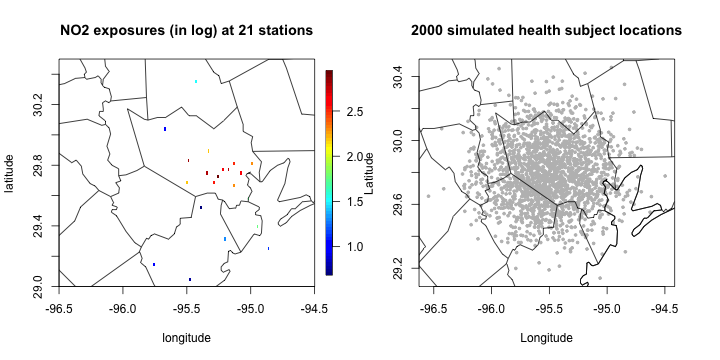
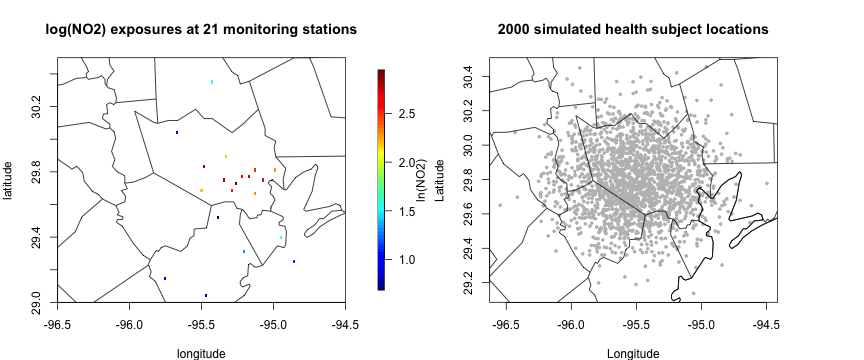
Deploying to gh-pages from @ changwoo-lee/bspme@e62333fca1ca204ca555ebb7ffd8308787984d74 🚀

diff --git a/articles/no2-exposure-and-health-data-analysis.html b/articles/no2-exposure-and-health-data-analysis.html
@@ -78,14 +78,14 @@
     
     
 <p>This is a vignette for the <code>bspme</code> package based on
-January 2012 daily average NO2 data at Houston, Texas and simulated
-health dataset.</p>
+January 2012 daily average NO2 data in Harris County, Texas and a
+simulated health dataset.</p>
 <p>First load the package and data:</p>
 <div class="sourceCode" id="cb1"><pre class="downlit sourceCode r">
 <code class="sourceCode R"><span><span class="fu"><a href="https://rdrr.io/r/base/rm.html" class="external-link">rm</a></span><span class="op">(</span>list<span class="op">=</span><span class="fu"><a href="https://rdrr.io/r/base/ls.html" class="external-link">ls</a></span><span class="op">(</span><span class="op">)</span><span class="op">)</span></span>
 <span><span class="kw"><a href="https://rdrr.io/r/base/library.html" class="external-link">library</a></span><span class="op">(</span><span class="va"><a href="https://changwoo-lee.github.io/bspme/">bspme</a></span><span class="op">)</span></span>
-<span><span class="kw"><a href="https://rdrr.io/r/base/library.html" class="external-link">library</a></span><span class="op">(</span><span class="va"><a href="https://github.com/dnychka/fieldsRPackage" class="external-link">fields</a></span><span class="op">)</span></span>
-<span><span class="kw"><a href="https://rdrr.io/r/base/library.html" class="external-link">library</a></span><span class="op">(</span><span class="va">maps</span><span class="op">)</span></span>
+<span><span class="kw"><a href="https://rdrr.io/r/base/library.html" class="external-link">library</a></span><span class="op">(</span><span class="va"><a href="https://github.com/dnychka/fieldsRPackage" class="external-link">fields</a></span><span class="op">)</span> <span class="co"># for spatial distance calculation and covariance functions </span></span>
+<span><span class="kw"><a href="https://rdrr.io/r/base/library.html" class="external-link">library</a></span><span class="op">(</span><span class="va">maps</span><span class="op">)</span> <span class="co"># plotting tool </span></span>
 <span><span class="fu"><a href="https://rdrr.io/r/utils/data.html" class="external-link">data</a></span><span class="op">(</span><span class="st">"NO2_Jan2012"</span><span class="op">)</span></span>
 <span><span class="fu"><a href="https://rdrr.io/r/utils/data.html" class="external-link">data</a></span><span class="op">(</span><span class="st">"health_sim"</span><span class="op">)</span></span></code></pre></div>
 <p>The daily average NO2 data are collected at 21 monitoring sites
@@ -95,39 +95,39 @@ purpose. We also consider simulated health dataset, with <span class="math inlin
 health responses.</p>
 <div class="sourceCode" id="cb2"><pre class="downlit sourceCode r">
 <code class="sourceCode R"><span><span class="va">data_jan10</span> <span class="op">=</span> <span class="va">NO2_Jan2012</span><span class="op">[</span><span class="va">NO2_Jan2012</span><span class="op">$</span><span class="va">date</span> <span class="op">==</span> <span class="fu"><a href="https://rdrr.io/r/base/as.POSIXlt.html" class="external-link">as.POSIXct</a></span><span class="op">(</span><span class="st">"2012-01-10"</span><span class="op">)</span>,<span class="op">]</span></span>
-<span><span class="fu"><a href="https://rdrr.io/r/graphics/par.html" class="external-link">par</a></span><span class="op">(</span>mfrow <span class="op">=</span> <span class="fu"><a href="https://rdrr.io/r/base/c.html" class="external-link">c</a></span><span class="op">(</span><span class="fl">1</span>,<span class="fl">2</span><span class="op">)</span><span class="op">)</span></span>
+<span><span class="fu"><a href="https://rdrr.io/r/graphics/par.html" class="external-link">par</a></span><span class="op">(</span>mfrow <span class="op">=</span> <span class="fu"><a href="https://rdrr.io/r/base/c.html" class="external-link">c</a></span><span class="op">(</span><span class="fl">1</span>,<span class="fl">2</span><span class="op">)</span>, mar <span class="op">=</span> <span class="fu"><a href="https://rdrr.io/r/base/c.html" class="external-link">c</a></span><span class="op">(</span><span class="fl">4</span>, <span class="fl">4</span>, <span class="fl">4</span>, <span class="fl">6</span><span class="op">)</span><span class="op">)</span></span>
 <span><span class="fu"><a href="https://rdrr.io/pkg/fields/man/quilt.plot.html" class="external-link">quilt.plot</a></span><span class="op">(</span><span class="fu"><a href="https://www.math.uzh.ch/pages/spam/reference/cbind.html" class="external-link">cbind</a></span><span class="op">(</span><span class="va">data_jan10</span><span class="op">$</span><span class="va">lon</span>, <span class="va">data_jan10</span><span class="op">$</span><span class="va">lat</span><span class="op">)</span>,</span>
-<span>            <span class="va">data_jan10</span><span class="op">$</span><span class="va">lnNO2</span>, main <span class="op">=</span> <span class="st">"NO2 exposures (in log) at 21 stations"</span>,</span>
-<span>            xlab <span class="op">=</span> <span class="st">"longitude"</span>, ylab<span class="op">=</span> <span class="st">"latitude"</span>, xlim <span class="op">=</span> <span class="fu"><a href="https://rdrr.io/r/base/c.html" class="external-link">c</a></span><span class="op">(</span><span class="op">-</span><span class="fl">96.5</span>, <span class="op">-</span><span class="fl">94.5</span><span class="op">)</span>, ylim <span class="op">=</span> <span class="fu"><a href="https://rdrr.io/r/base/c.html" class="external-link">c</a></span><span class="op">(</span><span class="fl">29</span>, <span class="fl">30.5</span><span class="op">)</span><span class="op">)</span></span>
+<span>            <span class="va">data_jan10</span><span class="op">$</span><span class="va">lnNO2</span>, main <span class="op">=</span> <span class="st">"log(NO2) exposures at 21 monitoring stations"</span>,</span>
+<span>            xlab <span class="op">=</span> <span class="st">"longitude"</span>, ylab<span class="op">=</span> <span class="st">"latitude"</span>, xlim <span class="op">=</span> <span class="fu"><a href="https://rdrr.io/r/base/c.html" class="external-link">c</a></span><span class="op">(</span><span class="op">-</span><span class="fl">96.5</span>, <span class="op">-</span><span class="fl">94.5</span><span class="op">)</span>, ylim <span class="op">=</span> <span class="fu"><a href="https://rdrr.io/r/base/c.html" class="external-link">c</a></span><span class="op">(</span><span class="fl">29</span>, <span class="fl">30.5</span><span class="op">)</span>, legend.lab <span class="op">=</span> <span class="st">"ln(NO2)"</span><span class="op">)</span></span>
 <span><span class="fu">maps</span><span class="fu">::</span><span class="fu"><a href="https://rdrr.io/pkg/maps/man/map.html" class="external-link">map</a></span><span class="op">(</span><span class="st">"county"</span>, <span class="st">"Texas"</span>, add <span class="op">=</span> <span class="cn">T</span><span class="op">)</span></span>
 <span><span class="fu"><a href="https://rdrr.io/r/graphics/plot.default.html" class="external-link">plot</a></span><span class="op">(</span><span class="va">health_sim</span><span class="op">$</span><span class="va">lon</span>, <span class="va">health_sim</span><span class="op">$</span><span class="va">lat</span>, pch <span class="op">=</span> <span class="fl">19</span>, cex <span class="op">=</span> <span class="fl">0.5</span>, col <span class="op">=</span> <span class="st">"grey"</span>,</span>
 <span>     xlab <span class="op">=</span> <span class="st">"Longitude"</span>, ylab <span class="op">=</span> <span class="st">"Latitude"</span>, main <span class="op">=</span> <span class="st">"2000 simulated health subject locations"</span><span class="op">)</span>; <span class="fu"><a href="https://rdrr.io/pkg/fields/man/US.html" class="external-link">US</a></span><span class="op">(</span>add <span class="op">=</span> <span class="cn">T</span><span class="op">)</span></span>
 <span><span class="fu">maps</span><span class="fu">::</span><span class="fu"><a href="https://rdrr.io/pkg/maps/man/map.html" class="external-link">map</a></span><span class="op">(</span><span class="st">"county"</span>, <span class="st">"Texas"</span>, add <span class="op">=</span> <span class="cn">T</span><span class="op">)</span></span></code></pre></div>
 <div class="figure">
 <img src="figure/eda-1.png" alt="plot of chunk eda" width="100%"><p class="caption">
-plot of chunk eda
 </p>
 </div>
 <div class="section level3">
 <h3 id="obtain-posterior-predictive-distribution-at-health-subject-locations">Obtain posterior predictive distribution at health subject
 locations<a class="anchor" aria-label="anchor" href="#obtain-posterior-predictive-distribution-at-health-subject-locations"></a>
 </h3>
-<p>In this example, we will use Gaussian process to obtain a predictive
-distribution of <span class="math inline">\((X_1,\dots,X_n)\)</span>,
-the log(NO2) exposure at the health subject locations. The posterior
-predictive distribution is n-dimensional multivariate normal <span class="math inline">\(N(\mu_X, Q_X^{-1})\)</span>, which will be used as
-a prior in health model to incorporate measurement error information of
-ozone exposure. Specifically, we will use the exponential covariance
-kernel with fixed range 5 (in miles) and standard deviation 1 (in
-ppbv).</p>
+<p>In this example, we will use a Gaussian process to obtain a
+predictive distribution of <span class="math inline">\((X_1,\dots,X_n)\)</span> for the log(NO2) exposure
+at the health subject locations. The posterior predictive distribution
+(ppd) is an n-dimensional multivariate normal <span class="math inline">\(N(\mu_X, Q_X^{-1})\)</span>, which will be used as
+a prior to incorporate the prediction uncertainty and spatial
+correlation in NO2 exposures at health subject locations in the
+estimation of the health model. Speciﬁcally, we will use the exponential
+covariance kernel with a ﬁxed range of 8 (in km) and standard deviation
+1.</p>
 <div class="sourceCode" id="cb3"><pre class="downlit sourceCode r">
 <code class="sourceCode R"><span><span class="va">coords_monitor</span> <span class="op">=</span> <span class="fu"><a href="https://www.math.uzh.ch/pages/spam/reference/cbind.html" class="external-link">cbind</a></span><span class="op">(</span><span class="va">data_jan10</span><span class="op">$</span><span class="va">lon</span>, <span class="va">data_jan10</span><span class="op">$</span><span class="va">lat</span><span class="op">)</span></span>
 <span><span class="va">coords_health</span> <span class="op">=</span> <span class="fu"><a href="https://www.math.uzh.ch/pages/spam/reference/cbind.html" class="external-link">cbind</a></span><span class="op">(</span><span class="va">health_sim</span><span class="op">$</span><span class="va">lon</span>, <span class="va">health_sim</span><span class="op">$</span><span class="va">lat</span><span class="op">)</span></span>
-<span><span class="va">a</span> <span class="op">=</span> <span class="fl">5</span>; <span class="va">sigma</span> <span class="op">=</span> <span class="fl">1</span>; <span class="co"># assume known</span></span>
+<span><span class="va">a</span> <span class="op">=</span> <span class="fl">8</span>; <span class="va">sigma</span> <span class="op">=</span> <span class="fl">1</span>; <span class="co"># assume known</span></span>
 <span><span class="co"># distance calculation</span></span>
-<span><span class="va">distmat_xx</span> <span class="op">&lt;-</span> <span class="fu"><a href="https://rdrr.io/pkg/fields/man/rdist.earth.html" class="external-link">rdist.earth</a></span><span class="op">(</span><span class="va">coords_monitor</span><span class="op">)</span></span>
-<span><span class="va">distmat_xy</span> <span class="op">&lt;-</span> <span class="fu"><a href="https://rdrr.io/pkg/fields/man/rdist.earth.html" class="external-link">rdist.earth</a></span><span class="op">(</span><span class="va">coords_monitor</span>, <span class="va">coords_health</span><span class="op">)</span></span>
-<span><span class="va">distmat_yy</span> <span class="op">&lt;-</span> <span class="fu"><a href="https://rdrr.io/pkg/fields/man/rdist.earth.html" class="external-link">rdist.earth</a></span><span class="op">(</span><span class="va">coords_health</span><span class="op">)</span></span>
+<span><span class="va">distmat_xx</span> <span class="op">&lt;-</span> <span class="fu"><a href="https://rdrr.io/pkg/fields/man/rdist.earth.html" class="external-link">rdist.earth</a></span><span class="op">(</span><span class="va">coords_monitor</span>, miles <span class="op">=</span> <span class="cn">F</span><span class="op">)</span></span>
+<span><span class="va">distmat_xy</span> <span class="op">&lt;-</span> <span class="fu"><a href="https://rdrr.io/pkg/fields/man/rdist.earth.html" class="external-link">rdist.earth</a></span><span class="op">(</span><span class="va">coords_monitor</span>, <span class="va">coords_health</span>, miles <span class="op">=</span> <span class="cn">F</span><span class="op">)</span></span>
+<span><span class="va">distmat_yy</span> <span class="op">&lt;-</span> <span class="fu"><a href="https://rdrr.io/pkg/fields/man/rdist.earth.html" class="external-link">rdist.earth</a></span><span class="op">(</span><span class="va">coords_health</span>, miles <span class="op">=</span> <span class="cn">F</span><span class="op">)</span></span>
 <span></span>
 <span><span class="co"># GP covariance matrices</span></span>
 <span><span class="va">Sigmaxx</span> <span class="op">=</span> <span class="fu">fields</span><span class="fu">::</span><span class="fu"><a href="https://rdrr.io/pkg/fields/man/Exponential.html" class="external-link">Matern</a></span><span class="op">(</span><span class="va">distmat_xx</span>, smoothness <span class="op">=</span> <span class="fl">0.5</span>, range <span class="op">=</span> <span class="va">a</span>, phi <span class="op">=</span> <span class="va">sigma</span><span class="op">^</span><span class="fl">2</span><span class="op">)</span></span>
@@ -139,25 +139,26 @@ ppbv).</p>
 <span><span class="va">X_cov</span> <span class="op">&lt;-</span> <span class="va">Sigmayy</span> <span class="op">-</span> <span class="fu"><a href="https://rdrr.io/r/base/t.html" class="external-link">t</a></span><span class="op">(</span><span class="va">Sigmaxy</span><span class="op">)</span> <span class="op"><a href="https://rdrr.io/r/base/matmult.html" class="external-link">%*%</a></span> <span class="fu"><a href="https://rdrr.io/pkg/Matrix/man/solve-methods.html" class="external-link">solve</a></span><span class="op">(</span><span class="va">Sigmaxx</span>,<span class="va">Sigmaxy</span><span class="op">)</span> <span class="co"># n_y by n_y</span></span>
 <span></span>
 <span><span class="co"># visualization of posterior predictive distribution. Black triangle is monitoring station locations.</span></span>
-<span><span class="fu"><a href="https://rdrr.io/r/graphics/par.html" class="external-link">par</a></span><span class="op">(</span>mfrow <span class="op">=</span> <span class="fu"><a href="https://rdrr.io/r/base/c.html" class="external-link">c</a></span><span class="op">(</span><span class="fl">1</span>,<span class="fl">2</span><span class="op">)</span><span class="op">)</span></span>
+<span><span class="fu"><a href="https://rdrr.io/r/graphics/par.html" class="external-link">par</a></span><span class="op">(</span>mfrow <span class="op">=</span> <span class="fu"><a href="https://rdrr.io/r/base/c.html" class="external-link">c</a></span><span class="op">(</span><span class="fl">1</span>,<span class="fl">2</span><span class="op">)</span>, mar <span class="op">=</span> <span class="fu"><a href="https://rdrr.io/r/base/c.html" class="external-link">c</a></span><span class="op">(</span><span class="fl">4</span>, <span class="fl">4</span>, <span class="fl">4</span>, <span class="fl">6</span><span class="op">)</span><span class="op">)</span></span>
 <span><span class="fu"><a href="https://rdrr.io/pkg/fields/man/quilt.plot.html" class="external-link">quilt.plot</a></span><span class="op">(</span><span class="fu"><a href="https://www.math.uzh.ch/pages/spam/reference/cbind.html" class="external-link">cbind</a></span><span class="op">(</span><span class="va">health_sim</span><span class="op">$</span><span class="va">lon</span>, <span class="va">health_sim</span><span class="op">$</span><span class="va">lat</span><span class="op">)</span>,</span>
-<span>          <span class="va">X_mean</span>, main <span class="op">=</span> <span class="st">"posterior predictive mean of exposure at health data locations"</span>,</span>
-<span>          xlab <span class="op">=</span> <span class="st">"longitude"</span>, ylab<span class="op">=</span> <span class="st">"latitude"</span>, xlim <span class="op">=</span> <span class="fu"><a href="https://rdrr.io/r/base/c.html" class="external-link">c</a></span><span class="op">(</span><span class="op">-</span><span class="fl">96.5</span>, <span class="op">-</span><span class="fl">94.5</span><span class="op">)</span>, ylim <span class="op">=</span> <span class="fu"><a href="https://rdrr.io/r/base/c.html" class="external-link">c</a></span><span class="op">(</span><span class="fl">29</span>, <span class="fl">30.5</span><span class="op">)</span><span class="op">)</span></span>
+<span>          <span class="va">X_mean</span>, main <span class="op">=</span> <span class="st">"posterior predictive mean at health subject locations"</span>,</span>
+<span>          xlab <span class="op">=</span> <span class="st">"longitude"</span>, ylab<span class="op">=</span> <span class="st">"latitude"</span>, xlim <span class="op">=</span> <span class="fu"><a href="https://rdrr.io/r/base/c.html" class="external-link">c</a></span><span class="op">(</span><span class="op">-</span><span class="fl">96.5</span>, <span class="op">-</span><span class="fl">94.5</span><span class="op">)</span>, ylim <span class="op">=</span> <span class="fu"><a href="https://rdrr.io/r/base/c.html" class="external-link">c</a></span><span class="op">(</span><span class="fl">29</span>, <span class="fl">30.5</span><span class="op">)</span>, legend.lab <span class="op">=</span> <span class="st">"ln(NO2)"</span><span class="op">)</span></span>
 <span><span class="fu">maps</span><span class="fu">::</span><span class="fu"><a href="https://rdrr.io/pkg/maps/man/map.html" class="external-link">map</a></span><span class="op">(</span><span class="st">"county"</span>, <span class="st">"Texas"</span>, add <span class="op">=</span> <span class="cn">T</span><span class="op">)</span></span>
 <span><span class="co"># posterior predictive sd of exposure at health data</span></span>
 <span><span class="fu"><a href="https://rdrr.io/pkg/fields/man/quilt.plot.html" class="external-link">quilt.plot</a></span><span class="op">(</span><span class="fu"><a href="https://www.math.uzh.ch/pages/spam/reference/cbind.html" class="external-link">cbind</a></span><span class="op">(</span><span class="va">health_sim</span><span class="op">$</span><span class="va">lon</span>, <span class="va">health_sim</span><span class="op">$</span><span class="va">lat</span><span class="op">)</span>,</span>
-<span>          <span class="fu"><a href="https://rdrr.io/r/base/MathFun.html" class="external-link">sqrt</a></span><span class="op">(</span><span class="fu"><a href="https://www.math.uzh.ch/pages/spam/reference/diag.html" class="external-link">diag</a></span><span class="op">(</span><span class="va">X_cov</span><span class="op">)</span><span class="op">)</span>, main <span class="op">=</span> <span class="st">"posterior predictive sd of exposure at health data locations"</span>,</span>
-<span>          xlab <span class="op">=</span> <span class="st">"longitude"</span>, ylab<span class="op">=</span> <span class="st">"latitude"</span>, xlim <span class="op">=</span> <span class="fu"><a href="https://rdrr.io/r/base/c.html" class="external-link">c</a></span><span class="op">(</span><span class="op">-</span><span class="fl">96.5</span>, <span class="op">-</span><span class="fl">94.5</span><span class="op">)</span>, ylim <span class="op">=</span> <span class="fu"><a href="https://rdrr.io/r/base/c.html" class="external-link">c</a></span><span class="op">(</span><span class="fl">29</span>, <span class="fl">30.5</span><span class="op">)</span><span class="op">)</span></span>
+<span>          <span class="fu"><a href="https://rdrr.io/r/base/MathFun.html" class="external-link">sqrt</a></span><span class="op">(</span><span class="fu"><a href="https://www.math.uzh.ch/pages/spam/reference/diag.html" class="external-link">diag</a></span><span class="op">(</span><span class="va">X_cov</span><span class="op">)</span><span class="op">)</span>, main <span class="op">=</span> <span class="st">"posterior predictive stdev at health subject locations"</span>,</span>
+<span>          xlab <span class="op">=</span> <span class="st">"longitude"</span>, ylab<span class="op">=</span> <span class="st">"latitude"</span>, xlim <span class="op">=</span> <span class="fu"><a href="https://rdrr.io/r/base/c.html" class="external-link">c</a></span><span class="op">(</span><span class="op">-</span><span class="fl">96.5</span>, <span class="op">-</span><span class="fl">94.5</span><span class="op">)</span>, ylim <span class="op">=</span> <span class="fu"><a href="https://rdrr.io/r/base/c.html" class="external-link">c</a></span><span class="op">(</span><span class="fl">29</span>, <span class="fl">30.5</span><span class="op">)</span>, legend.lab <span class="op">=</span> <span class="st">"ln(NO2)"</span><span class="op">)</span></span>
 <span><span class="fu">maps</span><span class="fu">::</span><span class="fu"><a href="https://rdrr.io/pkg/maps/man/map.html" class="external-link">map</a></span><span class="op">(</span><span class="st">"county"</span>, <span class="st">"Texas"</span>, add <span class="op">=</span> <span class="cn">T</span><span class="op">)</span></span></code></pre></div>
 <div class="figure">
 <img src="figure/eda2-1.png" alt="plot of chunk eda2" width="100%"><p class="caption">
-plot of chunk eda2
 </p>
 </div>
 <p>The covariance of <span class="math inline">\((X_1,\dots,X_n)\)</span> contains all spatial
-dependency information up to a second order, but its inverse <span class="math inline">\(Q_X\)</span> become a dense matrix. When it comes
-to fitting the Bayesian linear model with measurement error, the naive
-implementation with n-dimensional multivariate normal prior <span class="math inline">\(N(\mu_X, Q_X^{-1})\)</span> takes cubic time
+dependency information up to a second order, but the precision matrix
+(inverse covariance matrix) <span class="math inline">\(Q_X\)</span>
+becomes a dense matrix. When it comes to fitting the Bayesian linear
+model with measurement error, the naive implementation with an
+n-dimensional multivariate normal prior <span class="math inline">\(N(\mu_X, Q_X^{-1})\)</span> takes cubic time
 complexity of posterior inference for each MCMC iteration, which becomes
 infeasible to run when <span class="math inline">\(n\)</span> is large
 such as tens of thousands.</p>
@@ -165,12 +166,12 @@ such as tens of thousands.</p>
 <div class="section level3">
 <h3 id="run-vecchia-approximation-to-get-sparse-precision-matrix">Run Vecchia approximation to get sparse precision matrix<a class="anchor" aria-label="anchor" href="#run-vecchia-approximation-to-get-sparse-precision-matrix"></a>
 </h3>
-<p>We propose to use Vecchia approximation to get a new multivariate
+<p>We propose to use a Vecchia approximation to get a new multivariate
 normal prior of <span class="math inline">\((X_1,\dots,X_n)\)</span>
-with sparse precision matrix, which is crucial for scalable
-implementation of health model with measurement error, but also at the
-same time it aims to best preserve the spatial dependency information in
-the original covariance matrix.</p>
+with a sparse precision matrix, which is crucial for the scalable
+implementation of health models with spatial exposure measurement error
+while preserving the spatial dependency information in the original
+covariance matrix as closely as possible.</p>
 <div class="sourceCode" id="cb4"><pre class="downlit sourceCode r">
 <code class="sourceCode R"><span><span class="co">#Run the Vecchia approximation to get the sparse precision matrix.</span></span>
 <span></span>
@@ -179,12 +180,12 @@ the original covariance matrix.</p>
 <span>            n.neighbors <span class="op">=</span> <span class="fl">10</span><span class="op">)</span></span>
 <span><span class="va">Q_sparse</span> <span class="op">=</span> <span class="va">run_vecchia</span><span class="op">$</span><span class="va">Q</span></span>
 <span><span class="va">run_vecchia</span><span class="op">$</span><span class="va">cputime</span></span>
-<span><span class="co">#&gt; Time difference of 0.5999758 secs</span></span></code></pre></div>
+<span><span class="co">#&gt; Time difference of 0.478267 secs</span></span></code></pre></div>
 </div>
 <div class="section level3">
 <h3 id="fit-bspme-with-sparse-precision-matrix">Fit bspme with sparse precision matrix<a class="anchor" aria-label="anchor" href="#fit-bspme-with-sparse-precision-matrix"></a>
 </h3>
-<p>We can now fit the main function of bspme package with sparse
+<p>We can now fit the main function of the bspme package with a sparse
 precision matrix.</p>
 <div class="sourceCode" id="cb5"><pre class="downlit sourceCode r">
 <code class="sourceCode R"><span><span class="co"># fit the model</span></span>
@@ -192,16 +193,17 @@ precision matrix.</p>
 <span>              X_mean <span class="op">=</span> <span class="va">X_mean</span>,</span>
 <span>              X_prec <span class="op">=</span> <span class="va">Q_sparse</span>, <span class="co"># sparse precision matrix</span></span>
 <span>              Z <span class="op">=</span> <span class="va">health_sim</span><span class="op">$</span><span class="va">Z</span>,</span>
-<span>              nburn <span class="op">=</span> <span class="fl">100</span>,</span>
-<span>              nsave <span class="op">=</span> <span class="fl">1000</span>,</span>
-<span>              nthin <span class="op">=</span> <span class="fl">1</span><span class="op">)</span></span></code></pre></div>
+<span>              nburn <span class="op">=</span> <span class="fl">100</span>, <span class="co"># increase as needed</span></span>
+<span>              nsave <span class="op">=</span> <span class="fl">1000</span>, <span class="co"># increase as needed</span></span>
+<span>              nthin <span class="op">=</span> <span class="fl">1</span><span class="op">)</span> <span class="co"># increase as needed</span></span></code></pre></div>
 <div class="sourceCode" id="cb6"><pre class="downlit sourceCode r">
 <code class="sourceCode R"><span><span class="va">fit_me</span><span class="op">$</span><span class="va">cputime</span></span>
-<span><span class="co">#&gt; Time difference of 7.23181 secs</span></span></code></pre></div>
-<p>It took less than 10 seconds to (1) run Vecchia approximation and (2)
-run the MCMC algorithm with total 1100 iterations.</p>
+<span><span class="co">#&gt; Time difference of 6.827609 secs</span></span></code></pre></div>
+<p>It takes less than 10 seconds to (1) run Vecchia approximation and
+(2) run the MCMC algorithm with a total of 1100 iterations (on Macbook
+M1 max CPU with 64GB of memory).</p>
 <div class="sourceCode" id="cb7"><pre class="downlit sourceCode r">
-<code class="sourceCode R"><span><span class="fu"><a href="https://rdrr.io/r/base/summary.html" class="external-link">summary</a></span><span class="op">(</span><span class="va">fit_me</span><span class="op">$</span><span class="va">posterior</span><span class="op">)</span></span>
+<code class="sourceCode R"><span><span class="fu"><a href="https://rdrr.io/r/base/summary.html" class="external-link">summary</a></span><span class="op">(</span><span class="va">fit_me</span><span class="op">$</span><span class="va">posterior</span><span class="op">)</span> <span class="co"># posterior summary</span></span>
 <span><span class="co">#&gt; </span></span>
 <span><span class="co">#&gt; Iterations = 1:1000</span></span>
 <span><span class="co">#&gt; Thinning interval = 1 </span></span>
@@ -212,60 +214,56 @@ run the MCMC algorithm with total 1100 iterations.</p>
 <span><span class="co">#&gt;    plus standard error of the mean:</span></span>
 <span><span class="co">#&gt; </span></span>
 <span><span class="co">#&gt;                Mean      SD Naive SE Time-series SE</span></span>
-<span><span class="co">#&gt; (Intercept)  0.7646 0.07789 0.002463       0.010519</span></span>
-<span><span class="co">#&gt; exposure.1  -1.9594 0.05087 0.001609       0.007164</span></span>
-<span><span class="co">#&gt; covariate.1  2.9536 0.03997 0.001264       0.003023</span></span>
-<span><span class="co">#&gt; sigma2_Y     0.9759 0.15318 0.004844       0.033582</span></span>
+<span><span class="co">#&gt; (Intercept)  0.7750 0.07129 0.002254       0.008845</span></span>
+<span><span class="co">#&gt; exposure.1  -1.9652 0.04525 0.001431       0.006501</span></span>
+<span><span class="co">#&gt; covariate.1  2.9556 0.04490 0.001420       0.004061</span></span>
+<span><span class="co">#&gt; sigma2_Y     0.9356 0.13538 0.004281       0.027180</span></span>
 <span><span class="co">#&gt; </span></span>
 <span><span class="co">#&gt; 2. Quantiles for each variable:</span></span>
 <span><span class="co">#&gt; </span></span>
 <span><span class="co">#&gt;                2.5%     25%     50%     75%   97.5%</span></span>
-<span><span class="co">#&gt; (Intercept)  0.6082  0.7191  0.7665  0.8129  0.9187</span></span>
-<span><span class="co">#&gt; exposure.1  -2.0572 -1.9954 -1.9582 -1.9243 -1.8647</span></span>
-<span><span class="co">#&gt; covariate.1  2.8712  2.9281  2.9534  2.9815  3.0285</span></span>
-<span><span class="co">#&gt; sigma2_Y     0.6451  0.8785  0.9800  1.0645  1.3046</span></span>
-<span><span class="fu">bayesplot</span><span class="fu">::</span><span class="fu">mcmc_trace</span><span class="op">(</span><span class="va">fit_me</span><span class="op">$</span><span class="va">posterior</span><span class="op">)</span></span></code></pre></div>
-<div class="figure">
-<img src="figure/unnamed-chunk-3-1.png" alt=""><p class="caption">plot of chunk unnamed-chunk-3</p>
-</div>
+<span><span class="co">#&gt; (Intercept)  0.6452  0.7273  0.7726  0.8222  0.9165</span></span>
+<span><span class="co">#&gt; exposure.1  -2.0566 -1.9952 -1.9624 -1.9327 -1.8824</span></span>
+<span><span class="co">#&gt; covariate.1  2.8693  2.9245  2.9572  2.9850  3.0448</span></span>
+<span><span class="co">#&gt; sigma2_Y     0.6677  0.8503  0.9310  1.0265  1.1975</span></span></code></pre></div>
 </div>
 <div class="section level3">
-<h3 id="fit-bspme-without-sparse-precision-matrix">Fit bspme without sparse precision matrix<a class="anchor" aria-label="anchor" href="#fit-bspme-without-sparse-precision-matrix"></a>
+<h3 id="fit-bspme-without-sparse-precision-matrix-slow">Fit bspme without sparse precision matrix (slow)<a class="anchor" aria-label="anchor" href="#fit-bspme-without-sparse-precision-matrix-slow"></a>
 </h3>
-<p>As mentioned before, if precision matrix is dense, the posterior
+<p>As mentioned above, if the precision matrix is dense, the posterior
 computation becomes infeasible when <span class="math inline">\(n\)</span> becomes large, such as tens of
 thousands. See the following example when <span class="math inline">\(n=2000\)</span>.</p>
 <div class="sourceCode" id="cb8"><pre class="downlit sourceCode r">
 <code class="sourceCode R"><span><span class="co"># fit the model, without vecchia approximation</span></span>
 <span><span class="co"># I will only run 11 iteration for illustration purpose</span></span>
-<span><span class="va">Q_dense</span> <span class="op">=</span> <span class="fu"><a href="https://rdrr.io/pkg/Matrix/man/solve-methods.html" class="external-link">solve</a></span><span class="op">(</span><span class="va">X_cov</span><span class="op">)</span> <span class="co"># inverting 3000 x 3000 matrix, takes some time</span></span>
+<span><span class="va">Q_dense</span> <span class="op">=</span> <span class="fu"><a href="https://rdrr.io/pkg/Matrix/man/solve-methods.html" class="external-link">solve</a></span><span class="op">(</span><span class="va">X_cov</span><span class="op">)</span> <span class="co"># inverting 2000 x 2000 matrix, takes some time</span></span>
 <span><span class="co"># run</span></span>
 <span><span class="va">fit_me_dense</span> <span class="op">=</span> <span class="fu"><a href="../reference/blm_me.html">blm_me</a></span><span class="op">(</span>Y <span class="op">=</span> <span class="va">health_sim</span><span class="op">$</span><span class="va">Y</span>,</span>
 <span>                X_mean <span class="op">=</span> <span class="va">X_mean</span>,</span>
 <span>                X_prec <span class="op">=</span> <span class="va">Q_dense</span>, <span class="co"># dense precision</span></span>
 <span>                Z <span class="op">=</span> <span class="va">health_sim</span><span class="op">$</span><span class="va">Z</span>,</span>
-<span>                nburn <span class="op">=</span> <span class="fl">1</span>,</span>
-<span>                nsave <span class="op">=</span> <span class="fl">10</span>,</span>
-<span>                nthin <span class="op">=</span> <span class="fl">1</span><span class="op">)</span></span></code></pre></div>
+<span>                nburn <span class="op">=</span> <span class="fl">1</span>, <span class="co"># I will only run 11 iteration for illustration purpose</span></span>
+<span>                nsave <span class="op">=</span> <span class="fl">11</span>, <span class="co"># I will only run 11 iteration for illustration purpose</span></span>
+<span>                nthin <span class="op">=</span> <span class="fl">1</span><span class="op">)</span> <span class="co"># I will only run 11 iteration for illustration purpose</span></span></code></pre></div>
 <div class="sourceCode" id="cb9"><pre class="downlit sourceCode r">
 <code class="sourceCode R"><span><span class="va">fit_me_dense</span><span class="op">$</span><span class="va">cputime</span></span>
-<span><span class="co">#&gt; Time difference of 16.98819 secs</span></span></code></pre></div>
-<p>With even only 11 MCMC iterations, it took about 15 seconds to run
-the MCMC algorithm. With same number of iterations as before (1100), it
-will take about 1500 seconds, i.e. 25 minutes to run the MCMC algorithm.
-This gap becomes much larger when the number of health subject locations
-grows, such as tens of thousands. Then, the naive algorithm using dense
-precision matrix becomes infeasible, but we can carry out the inference
-using Vecchia approximation.</p>
-<p>The quality of Vecchia approximation depends on the size of the
+<span><span class="co">#&gt; Time difference of 18.57673 secs</span></span></code></pre></div>
+<p>Even with only 11 MCMC iterations, it takes about 18 seconds to run
+the MCMC algorithm. With the same number of iterations as before (1100),
+it will take about 1800 seconds (i.e. 30 minutes) to run the MCMC
+algorithm. This gap becomes much larger when the number of health
+subject locations grows, such as tens of thousands. Then, the naive
+algorithm using a dense precision matrix becomes infeasible, but we can
+carry out the inference using the Vecchia approximation.</p>
+<p>The quality of the Vecchia approximation depends on the size of the
 nearest neighbors, which is controlled by the argument
-<code>n.neighbors</code> in <code>vecchia_cov</code> function. The
-larger the <code>n.neighbors</code>, the better the approximation. In
-the simulaton study of Lee et al. (2024), Vecchia approximation with
-small <code>n.neighbors</code> can provide scalable inference method
-where the results (e.g. RMSE, empirical coverage) are close to the
-results that are based on dense precision matrix or fully Bayesian
-analysis.</p>
+<code>n.neighbors</code> in the <code>vecchia_cov</code> function. The
+larger the <code>n.neighbors</code>, the better the approximation. The
+simulation study of Lee et al. (2024), Vecchia approximation with a
+relatively small <code>n.neighbors</code> can provide a scalable
+two-stage Bayesian inference method of which results (e.g. RMSE,
+empirical coverage) are close to those based on the dense precision
+matrix or a fully Bayesian analysis.</p>
 </div>
 <div class="section level2">
 <h2 id="references">References<a class="anchor" aria-label="anchor" href="#references"></a>

diff --git a/reference/vecchia_cov.html b/reference/vecchia_cov.html
@@ -122,10 +122,10 @@ The algorithm is based on the pseudocode 2 of Finley et al. (2019).</p>
 <span class="r-in"><span><span class="va">Sigma</span> <span class="op">=</span> <span class="fu">fields</span><span class="fu">::</span><span class="fu"><a href="https://rdrr.io/pkg/fields/man/exp.cov.html" class="external-link">Exp.cov</a></span><span class="op">(</span><span class="va">coords</span>, aRange <span class="op">=</span> <span class="fl">1</span><span class="op">)</span></span></span>
 <span class="r-in"><span><span class="va">fit5</span> <span class="op">=</span> <span class="fu">vecchia_cov</span><span class="op">(</span><span class="va">Sigma</span>, <span class="va">coords</span>, n.neighbors <span class="op">=</span> <span class="fl">5</span>, KLdiv <span class="op">=</span> <span class="cn">TRUE</span><span class="op">)</span></span></span>
 <span class="r-in"><span><span class="va">fit5</span><span class="op">$</span><span class="va">KLdiv</span></span></span>
-<span class="r-out co"><span class="r-pr">#&gt;</span> [1] 1099.96</span>
+<span class="r-out co"><span class="r-pr">#&gt;</span> [1] 1106.982</span>
 <span class="r-in"><span><span class="va">fit10</span> <span class="op">=</span> <span class="fu">vecchia_cov</span><span class="op">(</span><span class="va">Sigma</span>, <span class="va">coords</span>, n.neighbors <span class="op">=</span> <span class="fl">10</span>, KLdiv <span class="op">=</span> <span class="cn">TRUE</span><span class="op">)</span></span></span>
 <span class="r-in"><span><span class="va">fit10</span><span class="op">$</span><span class="va">KLdiv</span></span></span>
-<span class="r-out co"><span class="r-pr">#&gt;</span> [1] 924.8238</span>
+<span class="r-out co"><span class="r-pr">#&gt;</span> [1] 932.6029</span>
 <span class="r-in"><span></span></span>
 </code></pre></div>
     </div>
